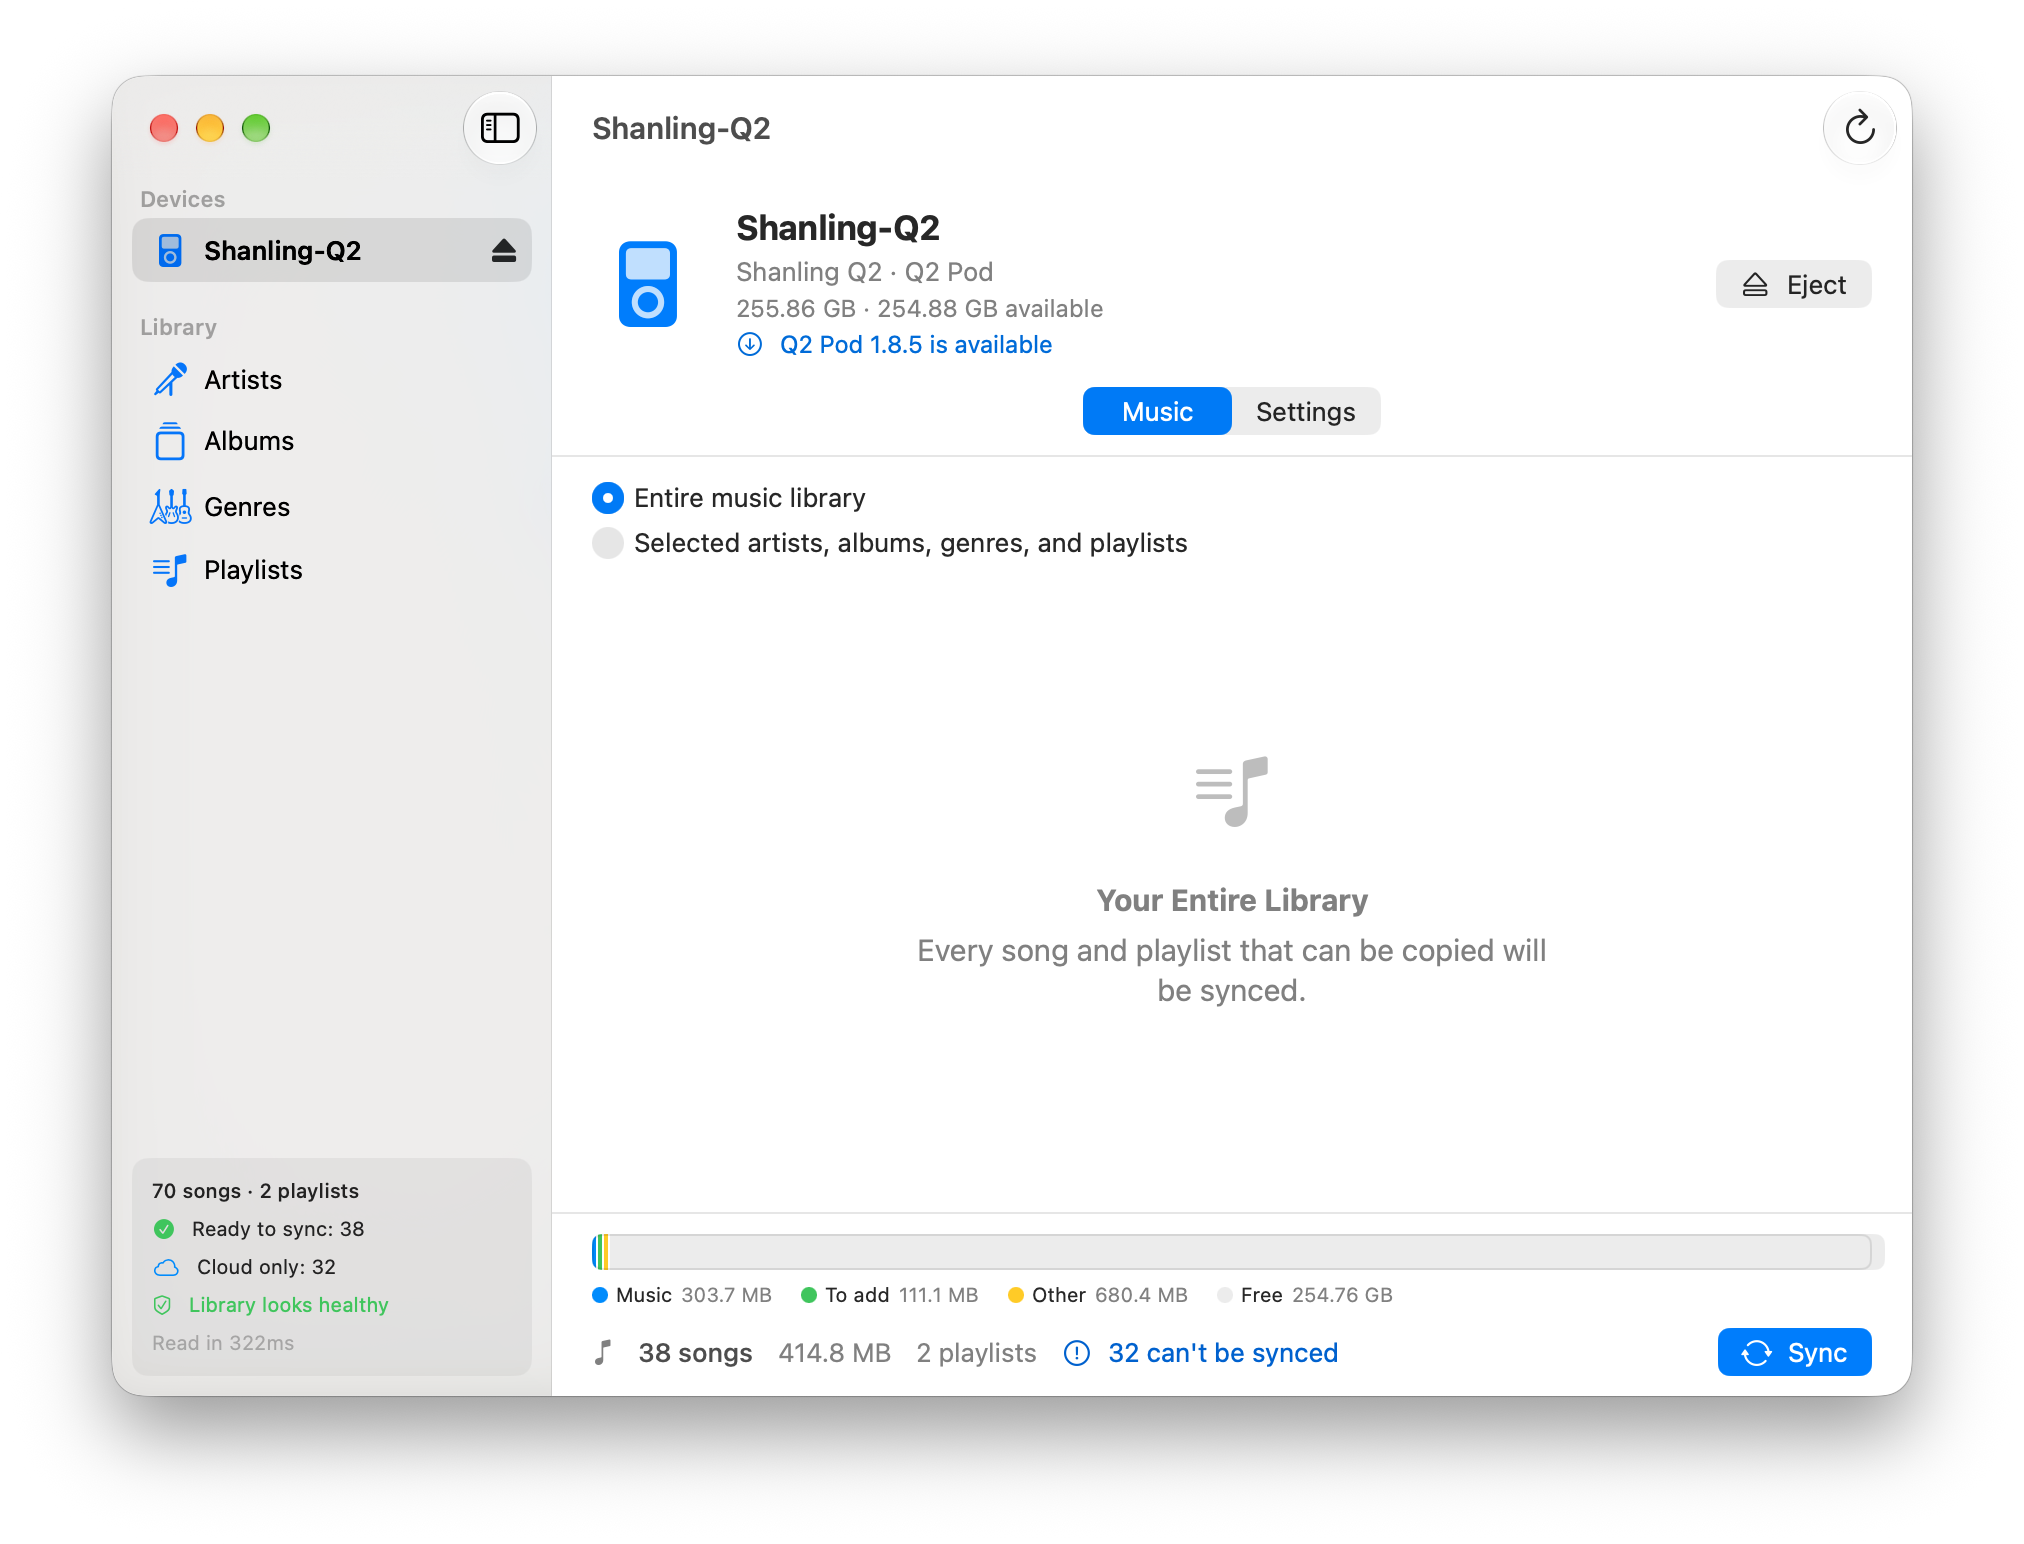
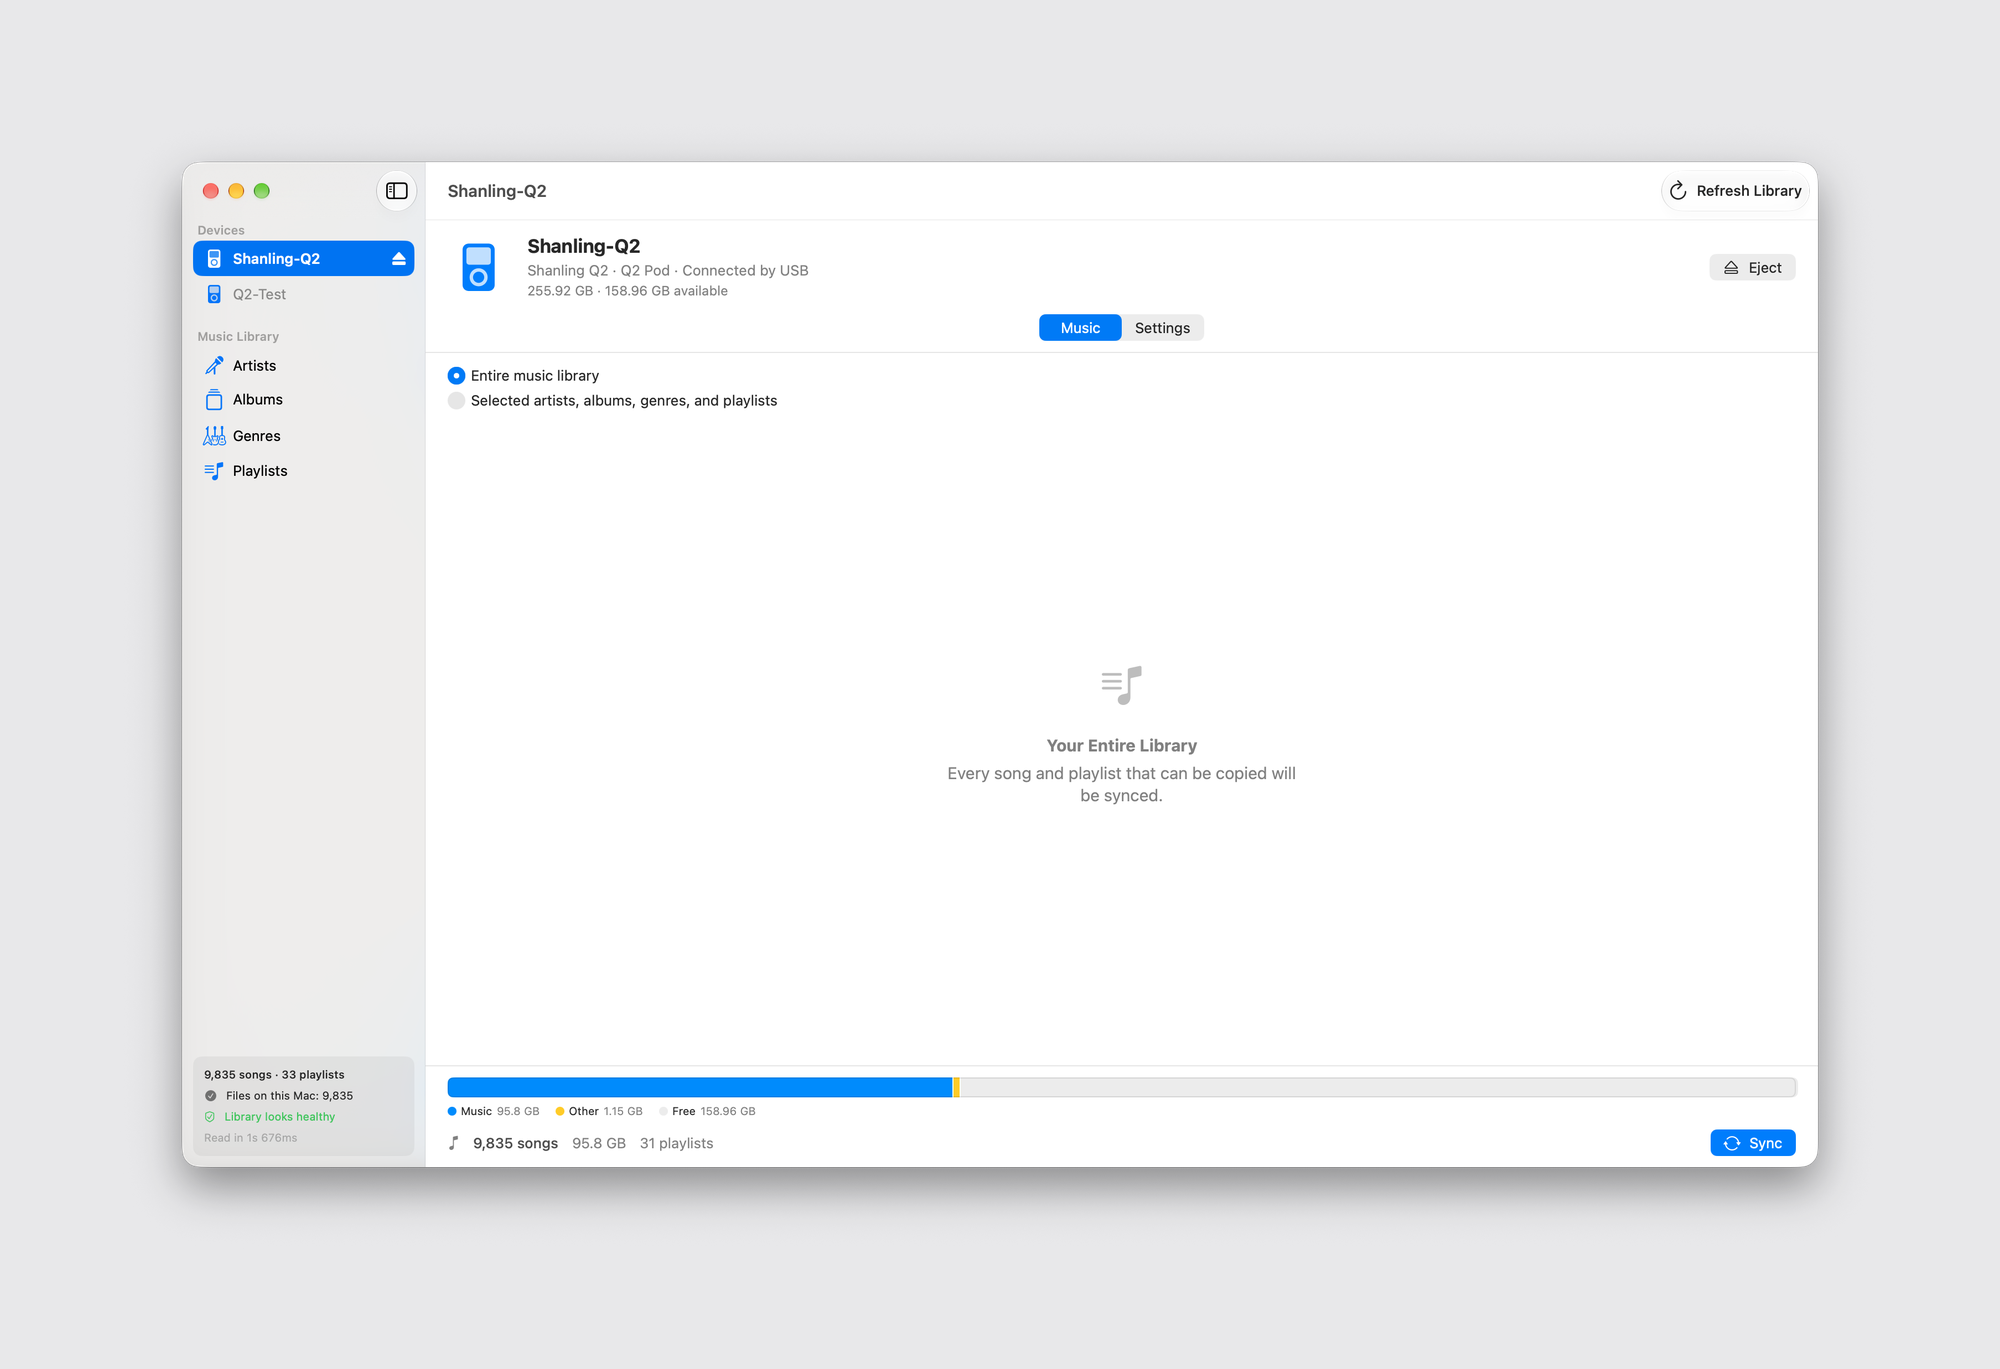
Replace README screenshots
New hero, music selection, sync preview and capacity bar images from the
current app. The menu bar shot is replaced by the Q2 Sync settings window.

Claude-Session: https://claude.ai/code/session_012jzYNnTRjKeYzxLLwNNUbb

diff --git a/README.md b/README.md
@@ -117,8 +117,8 @@ your Mac, or delete it.
 | --- | --- |
 | ![Choosing what to sync](docs/images/device-music.png) | ![Sync preview](docs/images/sync-preview.png) |
 | *Choose artists, albums, genres and playlists* | *Preview every change before it happens* |
-| ![Capacity bar](docs/images/capacity-bar.png) | ![Menu bar](docs/images/menu-bar.png) |
-| *Finder-style capacity bar* | *Menu bar item and auto-sync* |
+| ![Capacity bar](docs/images/capacity-bar.png) | ![Q2 Sync settings](docs/images/app-settings.png) |
+| *Finder-style capacity bar* | *Menu bar item and open at login* |
 
 ## Safe by design
 
